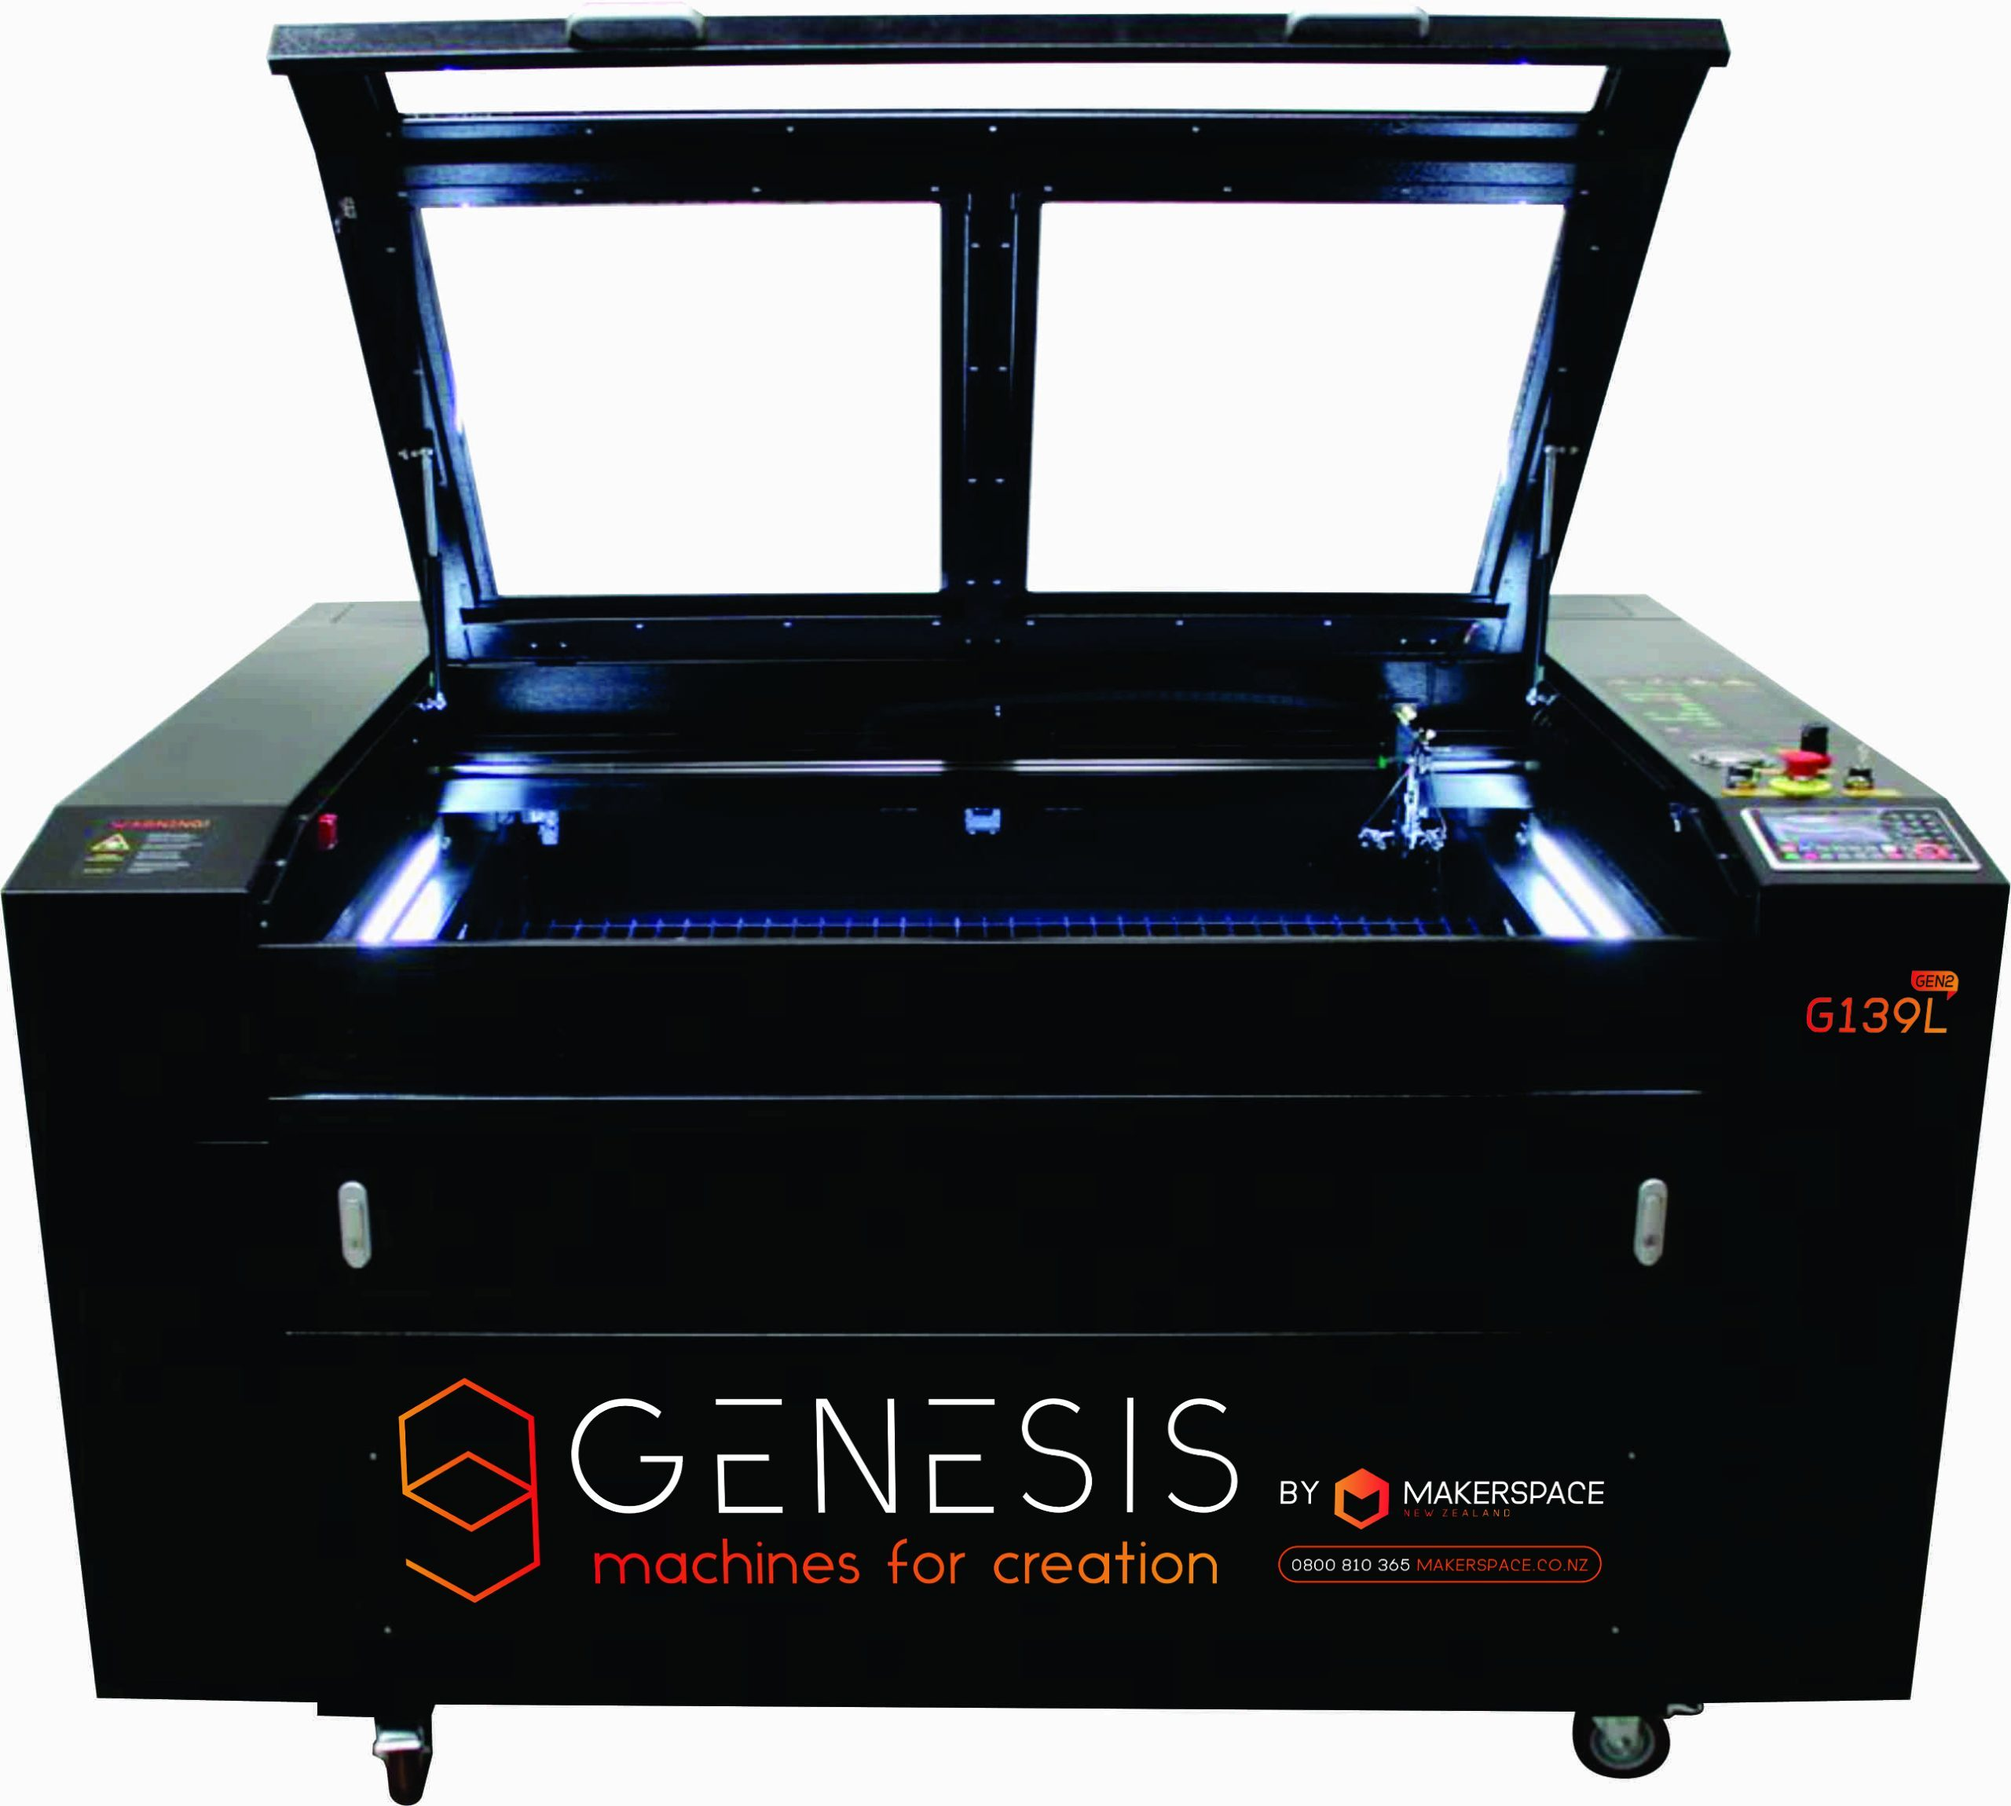
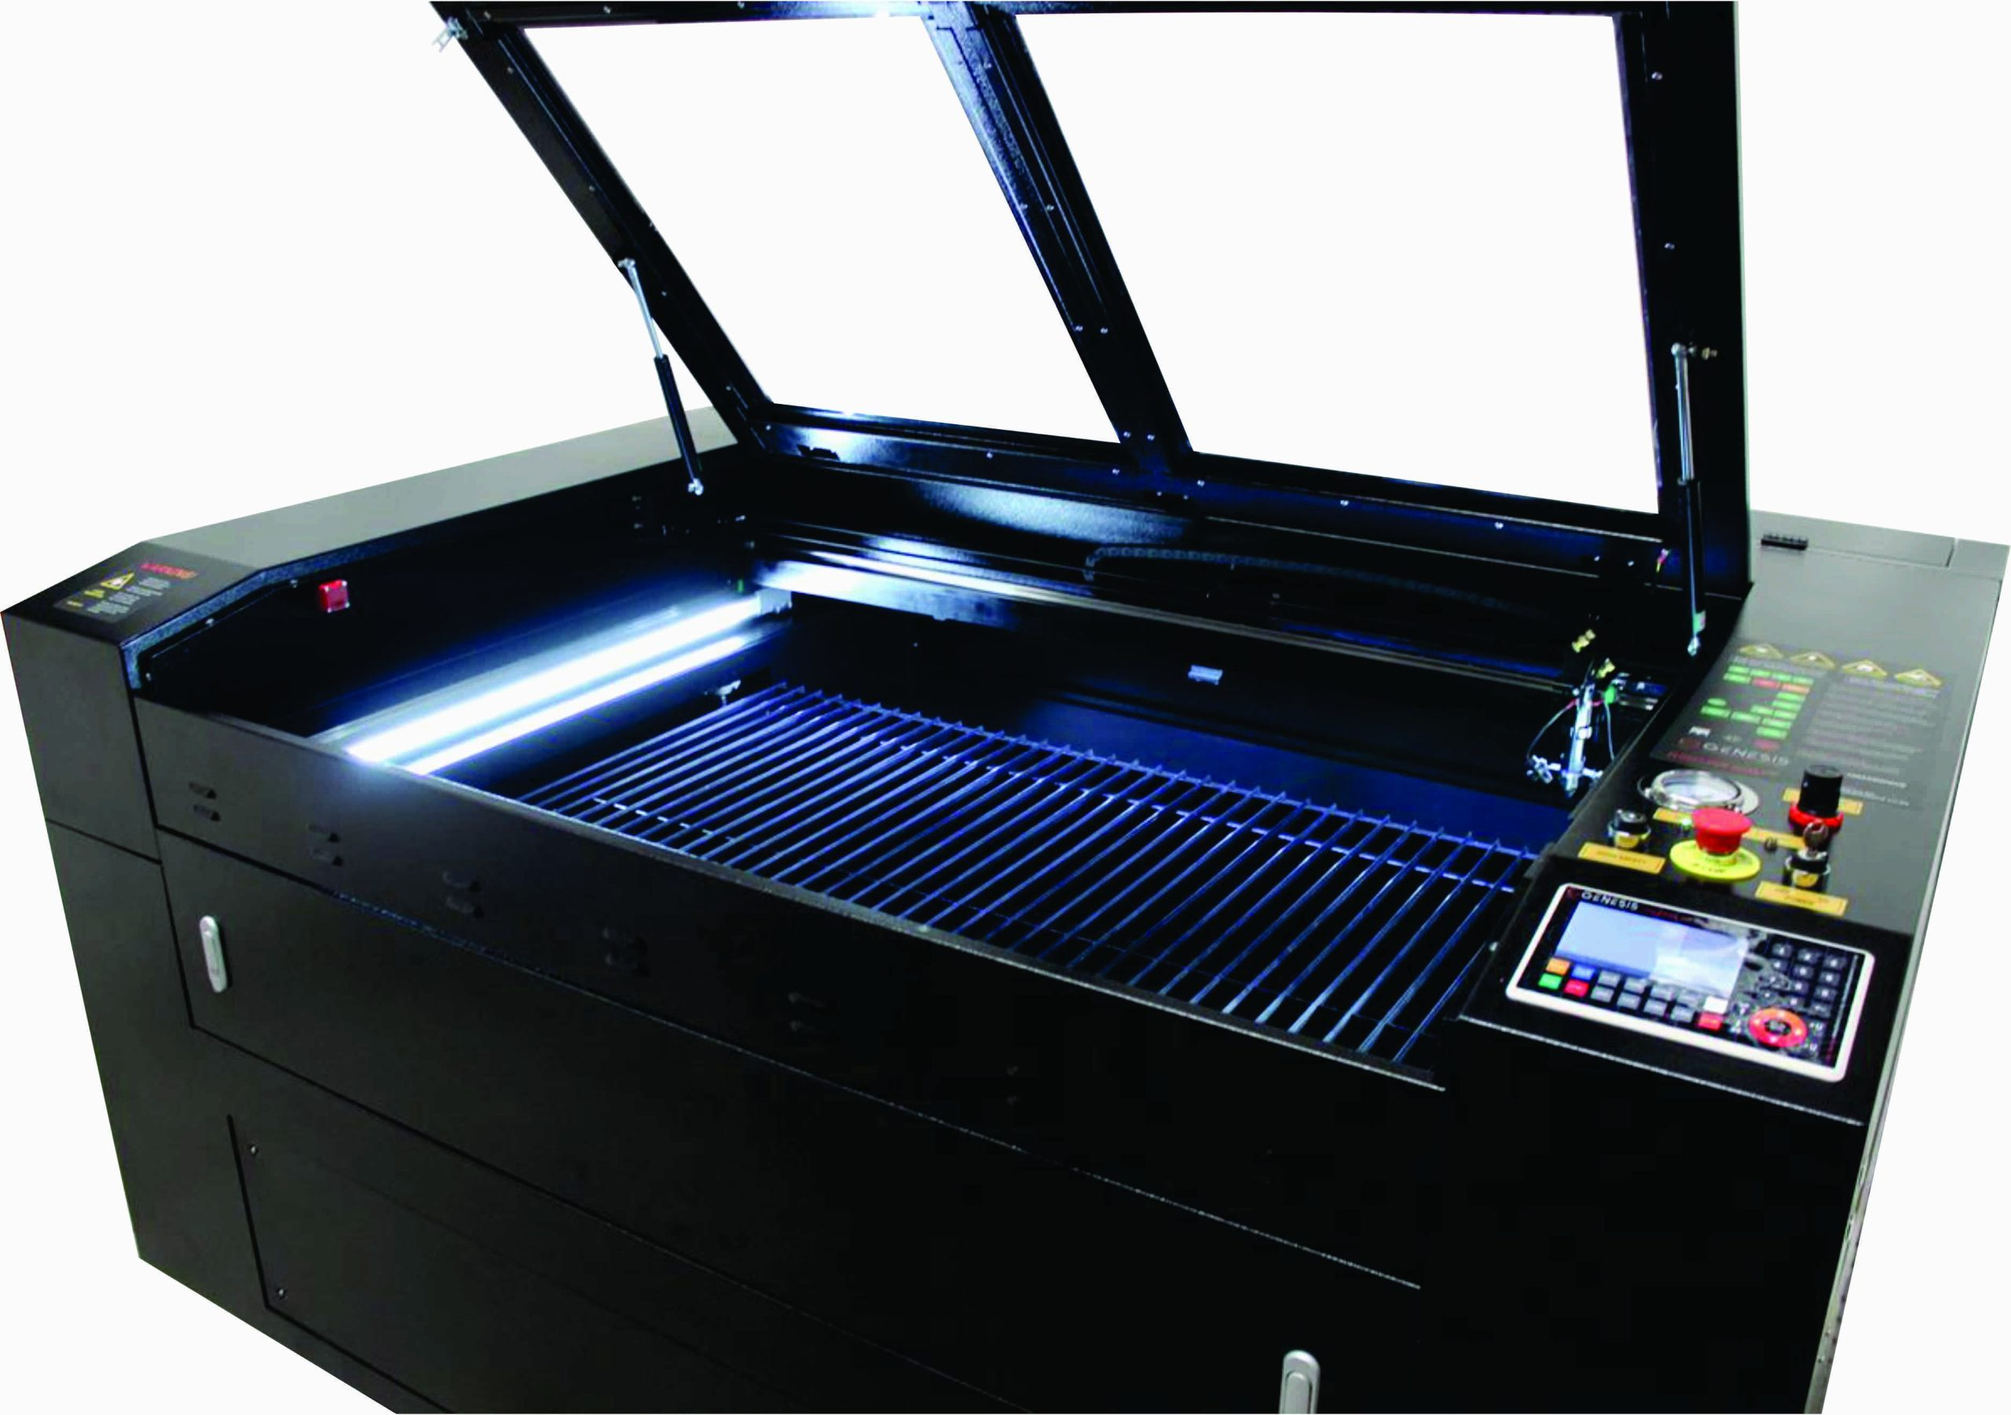
Add photo of laser cutter

diff --git a/docs/guides/laser/machine-details.md b/docs/guides/laser/machine-details.md
@@ -1,0 +1,15 @@
+# Machine Details
+
+![G139L Genesis Laser Cutter/Engraver](../../assets/images/G139L_Laser.jpg){ loading=lazy }
+
+## Machine Model
+
+The laser cutter/engraver that the HackLab has is the G139L "Genesis", by MakerSpace.  
+It's a fully-enclosed laser cutter and engraver.  
+It has been connected to the G150FE Genesis Fume Extractor (to protect our lungs and the air quality around us).
+
+## Bed Details
+
+The workbed (where the material you are working with goes) is able to accommodate sheets of material up to 1300 x 900 millimetres in size.
+The maximum thickness of the material is 450mm - but this is only for engraving, not for cutting.  
+For reliable cutting, the maximum material thickness is 16mm MDF or 18mm pine. With the 100W tube, the machine _can_ do 18mm MDF and 20mm pine, but it's advisable to err on the side of caution - multiple partial cut passes with a delay between them will produce a better result than one high-power full cut run (as it will burn/singe the surrounding material less).
